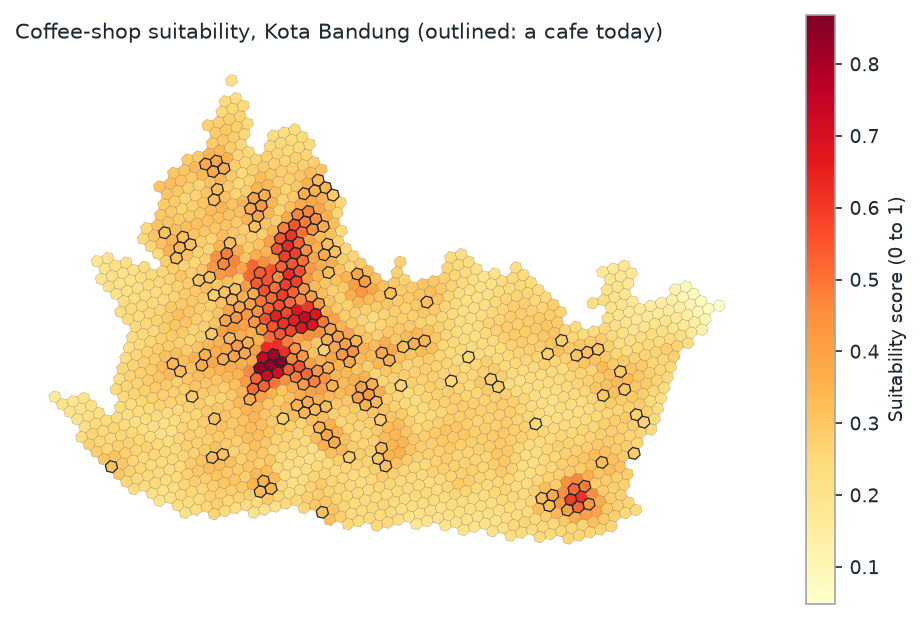
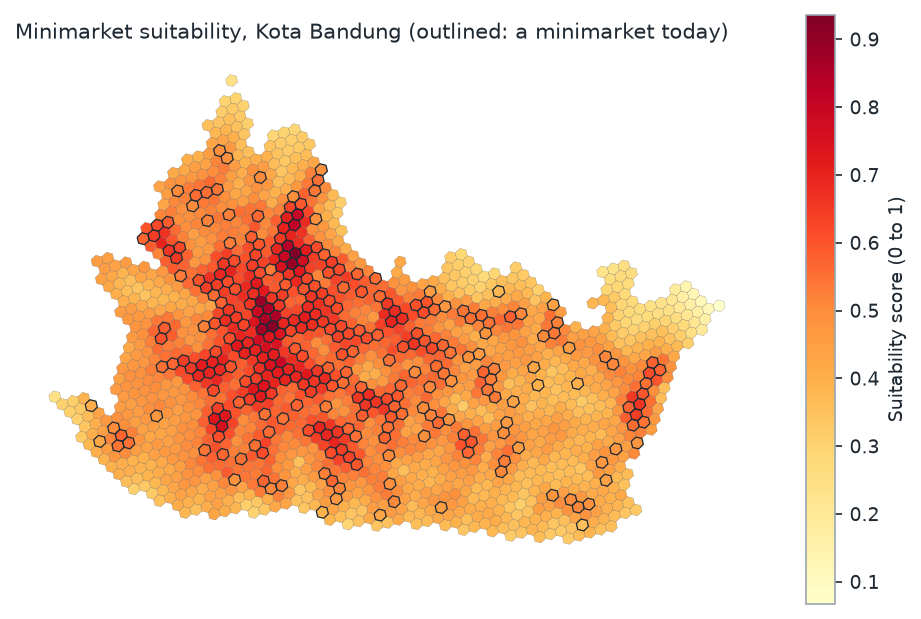
ch22 site selection: minimarket case replaces coffee shop; drop module acknowledgement (EN/ID)
Rerun on Kota Bandung with OSM shop=convenience (299 presence hexagons),
health facilities instead of tourism. Leakage 0.99 -> OOB 0.78 / test 0.75;
minimarket density 40% of SHAP weight, population now positive. Text,
quiz, exercises, ch01 cross-reference and score caveats updated.

Claude-Session: https://claude.ai/code/session_01LrW3HEoXn4tmE8wHVZrLtN

diff --git a/scripts/py/ch22_site_selection.py b/scripts/py/ch22_site_selection.py
@@ -1,10 +1,10 @@
 #| title: Vector GeoAI site selection (Python)
-#| description: Coffee-shop suitability in Kota Bandung on an H3 hexagon grid. OpenStreetMap proximity and density features, WorldPop population from Earth Engine, a manufactured presence/pseudo-absence label, the leakage trap, a Random Forest read with SHAP, and a transparent weighted score.
+#| description: Minimarket (convenience store) suitability in Kota Bandung on an H3 hexagon grid. OpenStreetMap proximity and density features, WorldPop population from Earth Engine, a manufactured presence/pseudo-absence label, the leakage trap, a Random Forest read with SHAP, and a transparent weighted score.
 
 """
 CHAPTER 22 | The same machine, a commercial question
 
-Score every part of a city for suitability as a coffee shop location, with the
+Score every part of a city for suitability as a minimarket location, with the
 same logic as the remote sensing chapters: build features, label examples,
 train a model, interpret it, produce a continuous score map. Swap reflectance
 for "distance to the nearest school" and pixel for hexagon, and the workflow
@@ -14,7 +14,8 @@ Environment (Colab or any Python 3.10+):
     pip install osmnx geopandas h3 shap scikit-learn earthengine-api matplotlib
 
 Data, all open:
-    OpenStreetMap (via osmnx)  city boundary, schools, tourism, cafes, roads
+    OpenStreetMap (via osmnx)  city boundary, schools, health facilities,
+                               minimarkets, roads
     WorldPop 2020 (via Earth Engine)  people per hexagon
 """
 
@@ -29,7 +30,7 @@ from shapely.geometry import Polygon
 
 PLACE = "Kota Bandung, Jawa Barat, Indonesia"
 # H3 resolution 9: hexagons about 175 m across, a two-minute walk, the right
-# unit for a coffee shop catchment. Resolution 8 (~460 m) suits a supermarket.
+# unit for a minimarket catchment. Resolution 8 (~460 m) suits a supermarket.
 H3_RESOLUTION = 9
 CRS_METRIC = "EPSG:32748"       # UTM 48S: distances in metres, never in degrees
 CRS_GEO = "EPSG:4326"
@@ -77,9 +78,8 @@ def build():
     outline = ox.geocode_to_gdf(PLACE).to_crs(CRS_GEO).geometry.iloc[0]
     layers = {
         "education": fetch_points({"amenity": ["school", "university", "college"]}),
-        "tourism": fetch_points({"tourism": ["attraction", "theme_park", "zoo", "museum",
-                                             "gallery", "viewpoint"]}),
-        "cafe": fetch_points({"amenity": ["cafe"]}),
+        "health": fetch_points({"amenity": ["hospital", "clinic", "doctors"]}),
+        "minimarket": fetch_points({"shop": ["convenience"]}),
     }
     roads = ox.features_from_place(PLACE, tags={"highway": ["primary", "secondary", "tertiary"]})
     roads = gpd.GeoDataFrame(roads[["geometry"]].reset_index(drop=True), geometry="geometry",
@@ -93,14 +93,14 @@ def build():
         near = gpd.sjoin_nearest(cent, layer.to_crs(CRS_METRIC), how="left", distance_col="d")
         grid[f"dist_{name}"] = near.groupby(near.index)["d"].min().values
     buffers = gpd.GeoDataFrame(geometry=cent.buffer(DENSITY_RADIUS_M), crs=CRS_METRIC)
-    for name in ("cafe", "education", "tourism"):
+    for name in ("minimarket", "education", "health"):
         grid[f"n_{name}_500m"] = count_within(buffers, layers[name].to_crs(CRS_METRIC))
     grid["population"] = worldpop_per_hex(grid)
 
-    # PART 4. Manufacturing a label: presence = a hexagon that already has a cafe;
+    # PART 4. Manufacturing a label: presence = a hexagon that already has a minimarket;
     # pseudo-absence = an equal random sample of empty hexagons ("typical
     # unoccupied", not "known bad").
-    occupied = gpd.sjoin(gm, layers["cafe"].to_crs(CRS_METRIC), how="inner",
+    occupied = gpd.sjoin(gm, layers["minimarket"].to_crs(CRS_METRIC), how="inner",
                          predicate="contains").index.unique()
     grid["label"] = np.nan
     grid.loc[occupied, "label"] = 1
@@ -111,9 +111,9 @@ def build():
     return _cache
 
 
-FEATURES_ALL = ["dist_education", "dist_tourism", "dist_cafe", "dist_road",
-                "n_cafe_500m", "n_education_500m", "n_tourism_500m", "population"]
-FEATURES = [f for f in FEATURES_ALL if f != "dist_cafe"]
+FEATURES_ALL = ["dist_education", "dist_health", "dist_minimarket", "dist_road",
+                "n_minimarket_500m", "n_education_500m", "n_health_500m", "population"]
+FEATURES = [f for f in FEATURES_ALL if f != "dist_minimarket"]
 
 
 def fit(features):
@@ -133,8 +133,8 @@ def fit(features):
 def leakage_table():
     c = build()
     rows = []
-    for name, feats in [("all features (includes distance to nearest cafe)", FEATURES_ALL),
-                        ("without distance to nearest cafe", FEATURES)]:
+    for name, feats in [("all features (includes distance to nearest minimarket)", FEATURES_ALL),
+                        ("without distance to nearest minimarket", FEATURES)]:
         _, _, _, s = fit(feats)
         rows.append({"model": name, **s})
     df = pd.DataFrame(rows)
@@ -189,12 +189,11 @@ def score():
 
 def score_figure():
     g = score()
-    cafes = build()["grid"]
     fig, ax = plt.subplots(figsize=(8, 8.5))
     g.plot(column="score", cmap="YlOrRd", linewidth=0.1, edgecolor="#555555", legend=True,
            legend_kwds={"label": "Suitability score (0 to 1)", "shrink": 0.6}, ax=ax)
     g[g.label == 1].boundary.plot(ax=ax, color="#1f2933", linewidth=0.6)
-    ax.set_title("Coffee-shop suitability, Kota Bandung (outlined: a cafe today)",
+    ax.set_title("Minimarket suitability, Kota Bandung (outlined: a minimarket today)",
                  loc="left", fontsize=10)
     ax.set_axis_off()
     return fig
@@ -207,7 +206,7 @@ def top_table():
     return pd.DataFrame({"rank": range(1, 11), "score": t.score.values,
                          "lat": c.y.round(5).values, "lon": c.x.round(5).values,
                          "people_in_hexagon": t.population.round().values,
-                         "cafes_within_500m": t.n_cafe_500m.values})
+                         "minimarkets_within_500m": t.n_minimarket_500m.values})
 
 
 def products():
@@ -215,7 +214,7 @@ def products():
         {"kind": "table", "name": "ch22-leakage", "data": leakage_table,
          "floatfmt": ("", ".3f", ".3f", ".3f", ",.0f", ",.0f"),
          "caption": "The leakage trap: the same Random Forest with and without the distance "
-                    "to the nearest cafe."},
+                    "to the nearest minimarket."},
         {"kind": "chart", "name": "ch22-shap", "data": shap_table, "plot": plot_shap,
          "caption": "SHAP weights of the honest model, coloured by the direction of each "
                     "feature's effect."},
@@ -224,10 +223,10 @@ def products():
          "caption": "Mean |SHAP| per feature, its direction, and the weight used in the score."},
         {"kind": "figure", "name": "ch22-score", "figure": score_figure,
          "caption": "Suitability score per H3 hexagon (resolution 9) from the SHAP-weighted "
-                    "features. Outlined hexagons already have a cafe in OpenStreetMap."},
+                    "features. Outlined hexagons already have a minimarket in OpenStreetMap."},
         {"kind": "table", "name": "ch22-top", "data": top_table,
          "floatfmt": ("", ".3f", ".5f", ".5f", ",.0f", ",.0f"),
-         "caption": "The ten highest-scoring hexagons without a cafe today: a shortlist to "
+         "caption": "The ten highest-scoring hexagons without a minimarket today: a shortlist to "
                     "visit, not a decision."},
     ]
 
